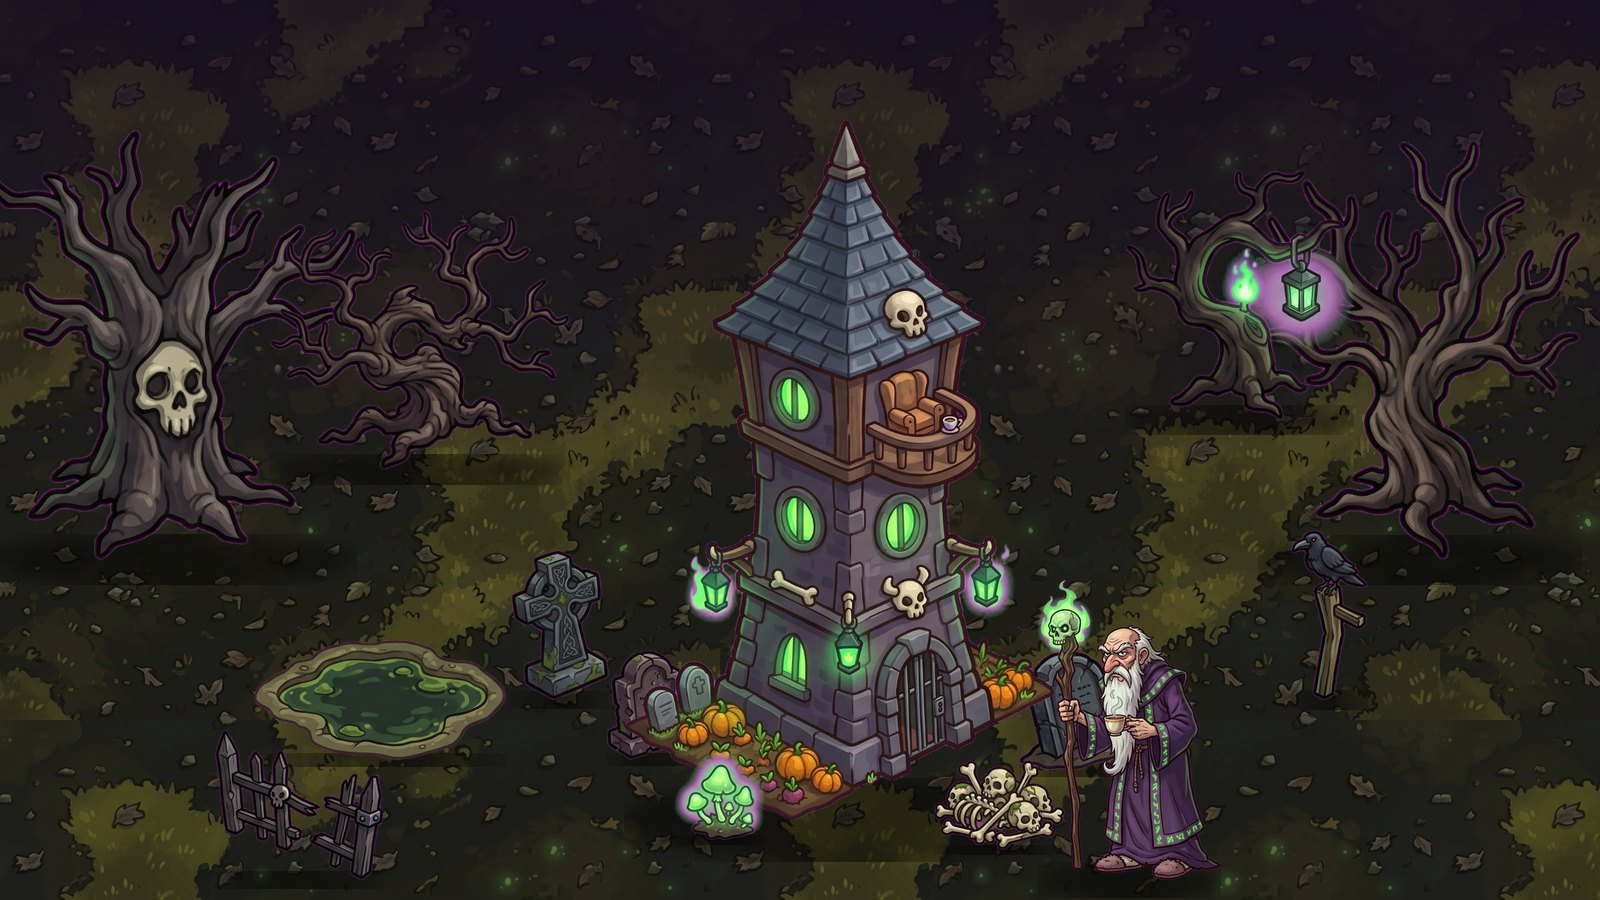
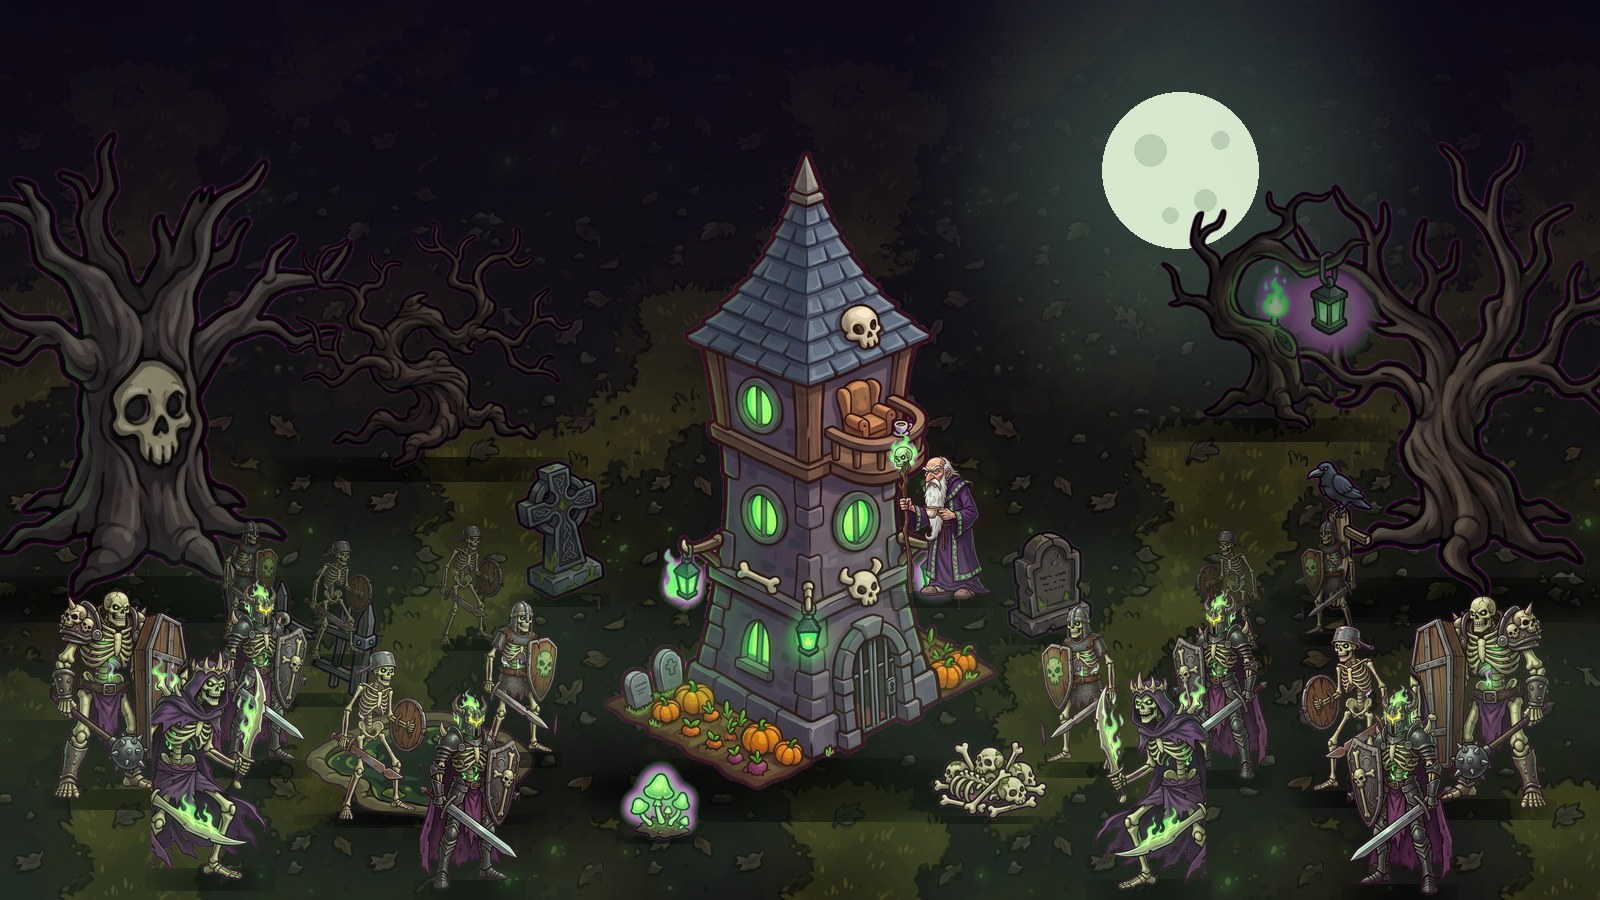
Giriş ekranı: iskelet ordulu ay ışıklı arka plan, kemik-yeşil ışıklı başlık, mezar taşı OYNA düğmesi, sis ve ruh kıvılcımları; KULE SAVUNMA kalktı; açılışta eski arka plan görünmüyor

diff --git a/sinir-kalesi/js/game.js b/sinir-kalesi/js/game.js
@@ -26,7 +26,7 @@ const spr = (name) => SPR[name] || null;
 let bgDirty = 0; // arka plan sprite'ı yeni yüklendi: bölüm arka planı ve harita önizlemeleri yeniden çizilecek
 fetch('img/manifest.json', { cache: 'no-cache' }) // liste değişince eski kopya kullanılmasın
   .then(r => (r.ok ? r.json() : []))
-  .then(list => list.forEach(file => {
+  .then(list => list.sort((a, b) => (b.startsWith('nm_title') ? 1 : 0) - (a.startsWith('nm_title') ? 1 : 0)).forEach(file => { // giriş ekranı arka planı önce yüklenir
     const name = file.replace(/\.(png|svg|jpg|webp)$/, '');
     const im = new Image();
     im.onload = () => {
@@ -7415,7 +7415,93 @@ function coverImage(im, zoom = 1, ox = 0, oy = 0) {
   ctx.drawImage(im.width > w * 1.5 ? pickMip(ctx, im, w) : im, (W - w) / 2 + ox, (H - h) / 2 + oy, w, h);
 }
 
+// ----- Necromancer giriş ekranı: kemik rengi, mor konturlu, yeşil ışıklı başlık ve mezar taşı düğme -----
+function necroLogo(s, x, y, size) {
+  ctx.font = `${size}px ${FONT_T}`; ctx.textAlign = 'center'; ctx.textBaseline = 'middle'; ctx.lineJoin = 'round';
+  const pulse = 0.55 + Math.sin(time * 2.2) * 0.15;
+  ctx.save(); ctx.shadowColor = `rgba(110,255,140,${pulse})`; ctx.shadowBlur = size * 0.5;
+  ctx.strokeStyle = '#0c0614'; ctx.lineWidth = size * 0.26; ctx.strokeText(s, x, y); ctx.restore();
+  ctx.strokeStyle = '#4a1f6e'; ctx.lineWidth = size * 0.12; ctx.strokeText(s, x, y);
+  const g = ctx.createLinearGradient(0, y - size / 2, 0, y + size / 2);
+  g.addColorStop(0, '#fbf6e4'); g.addColorStop(0.5, '#ddd2b0'); g.addColorStop(0.62, '#b4a682'); g.addColorStop(1, '#7e7058');
+  ctx.fillStyle = g; ctx.fillText(s, x, y);
+  // harflerin içinden süzülen yeşil ruh ışığı
+  const w = ctx.measureText(s).width, ph = (time * 0.25) % 1.6 - 0.3;
+  if (ph > -0.2 && ph < 1.2) {
+    const sx = x - w / 2 + ph * w, sg = ctx.createLinearGradient(sx - 60, 0, sx + 60, 0);
+    sg.addColorStop(0, 'rgba(140,255,160,0)'); sg.addColorStop(0.5, 'rgba(160,255,170,0.55)'); sg.addColorStop(1, 'rgba(140,255,160,0)');
+    ctx.save(); ctx.globalCompositeOperation = 'lighter'; ctx.fillStyle = sg; ctx.fillText(s, x, y); ctx.restore();
+  }
+}
+// mezar taşı biçimli OYNA düğmesi: koyu taş, yeşil ruh ışığıyla parlayan yazı ve kenar, iki yanda kafatası
+function necroPlayButton(key, x, y, w, h, label, fn, appear) {
+  const a = appear == null ? 1 : easeOutBack(clamp(appear / 0.35, 0, 1));
+  if (a <= 0.01) return;
+  const down = press.key === key, sc = pressScale(key) * a * (1 + Math.sin(time * 2.6) * 0.02), dy = down ? 3 : 0;
+  ctx.save(); ctx.translate(x, y); ctx.scale(sc, sc);
+  ctx.save(); ctx.globalCompositeOperation = 'lighter'; glow(ctx, 0, 6, w * 0.7, '90,255,130', 0.22 + Math.sin(time * 2.6) * 0.08); ctx.restore();
+  const shape = (o) => { ctx.beginPath(); ctx.moveTo(-w / 2 + o, h / 2 + 6 - o); ctx.lineTo(-w / 2 + o, -h / 2 + 14); ctx.quadraticCurveTo(-w / 2 + o, -h / 2 - 8 + o, -w / 2 + 40, -h / 2 - 10 + o);
+    ctx.lineTo(w / 2 - 40, -h / 2 - 10 + o); ctx.quadraticCurveTo(w / 2 - o, -h / 2 - 8 + o, w / 2 - o, -h / 2 + 14); ctx.lineTo(w / 2 - o, h / 2 + 6 - o); ctx.closePath(); };
+  ctx.fillStyle = 'rgba(0,0,0,0.5)'; ctx.save(); ctx.translate(3, 8); shape(0); ctx.fill(); ctx.restore();
+  ctx.save(); ctx.translate(0, dy);
+  shape(0); ctx.fillStyle = '#0c0812'; ctx.fill();
+  const g = ctx.createLinearGradient(0, -h / 2, 0, h / 2); g.addColorStop(0, '#5a5466'); g.addColorStop(0.5, '#3a3444'); g.addColorStop(1, '#221e2a');
+  shape(4); ctx.fillStyle = g; ctx.fill();
+  ctx.strokeStyle = `rgba(120,255,150,${0.55 + Math.sin(time * 3) * 0.2})`; ctx.lineWidth = 2; shape(7); ctx.stroke();
+  // taş çatlakları
+  ctx.strokeStyle = 'rgba(10,6,14,0.6)'; ctx.lineWidth = 1.5; ctx.beginPath(); ctx.moveTo(-w / 2 + 22, -h / 2 + 4); ctx.lineTo(-w / 2 + 34, -h / 2 + 18); ctx.lineTo(-w / 2 + 28, -h / 2 + 30);
+  ctx.moveTo(w / 2 - 26, h / 2 - 2); ctx.lineTo(w / 2 - 38, h / 2 - 16); ctx.stroke();
+  for (const sx of [-1, 1]) drawSkullIcon(sx * (w / 2 - 26), 2, 12);
+  ctx.font = `${Math.round(h * 0.5)}px ${FONT_T}`; ctx.textAlign = 'center'; ctx.textBaseline = 'middle';
+  ctx.save(); ctx.shadowColor = 'rgba(110,255,140,0.9)'; ctx.shadowBlur = 16; ctx.fillStyle = '#d8ffd8'; ctx.fillText(label, 0, 3); ctx.restore();
+  ctx.fillStyle = '#efffe8'; ctx.fillText(label, 0, 3);
+  ctx.restore(); ctx.restore();
+  if (fn) buttons.push({ key, x: x - w / 2, y: y - h / 2 - 10, w, h: h + 16, fn });
+}
+function drawSkullIcon(x, y, r) {
+  ctx.save(); ctx.translate(x, y);
+  ctx.fillStyle = '#e8e0c8'; ctx.strokeStyle = '#140c18'; ctx.lineWidth = 1.5;
+  ctx.beginPath(); ctx.arc(0, -r * 0.15, r * 0.75, Math.PI * 0.9, Math.PI * 2.1); ctx.lineTo(r * 0.45, r * 0.55); ctx.lineTo(-r * 0.45, r * 0.55); ctx.closePath(); ctx.fill(); ctx.stroke();
+  ctx.fillStyle = '#140c18'; ctx.beginPath(); ctx.ellipse(-r * 0.3, -r * 0.1, r * 0.2, r * 0.24, 0, 0, Math.PI * 2); ctx.ellipse(r * 0.3, -r * 0.1, r * 0.2, r * 0.24, 0, 0, Math.PI * 2); ctx.fill();
+  ctx.save(); ctx.globalCompositeOperation = 'lighter'; glow(ctx, -r * 0.3, -r * 0.1, r * 0.35, '120,255,140', 0.8); glow(ctx, r * 0.3, -r * 0.1, r * 0.35, '120,255,140', 0.8); ctx.restore();
+  ctx.restore();
+}
+function drawNecroTitle(st) {
+  const bg = spr('nm_title');
+  if (bg) coverImage(bg, 1.06 + Math.sin(time * 0.1) * 0.02, Math.sin(time * 0.07) * 8, Math.cos(time * 0.09) * 4);
+  else { const g = ctx.createLinearGradient(0, 0, 0, H); g.addColorStop(0, '#0c0614'); g.addColorStop(1, '#141a12'); ctx.fillStyle = g; ctx.fillRect(0, 0, W, H); }
+  // sürüklenen yeşil sis katmanları
+  ctx.save(); ctx.globalCompositeOperation = 'lighter';
+  for (let i = 0; i < 7; i++) {
+    const x = ((time * (8 + i * 3) + i * 170) % (W + 400)) - 200, y = H * (0.62 + (i % 3) * 0.12) + Math.sin(time * 0.5 + i) * 10;
+    glow(ctx, x, y, 140 + (i % 3) * 40, '90,200,120', 0.07);
+  }
+  ctx.restore();
+  // ay ışığı nabzı ve kenar karartması
+  let g = ctx.createLinearGradient(0, 0, 0, 230); g.addColorStop(0, 'rgba(8,4,14,0.75)'); g.addColorStop(1, 'rgba(8,4,14,0)');
+  ctx.fillStyle = g; ctx.fillRect(0, 0, W, 230);
+  g = ctx.createLinearGradient(0, H - 170, 0, H); g.addColorStop(0, 'rgba(6,4,10,0)'); g.addColorStop(1, 'rgba(6,4,10,0.75)');
+  ctx.fillStyle = g; ctx.fillRect(0, H - 170, W, 170);
+  // başlık
+  const e = easeOutBack(clamp(st / 0.7, 0, 1));
+  ctx.save(); ctx.globalAlpha = clamp(st / 0.25, 0, 1);
+  ctx.translate(W / 2, 92); ctx.scale(e, e); ctx.rotate(Math.sin(time * 1.1) * 0.008);
+  necroLogo("DON'T MESS WITH", 0, -34, 40); necroLogo('THE NECROMANCER', 0, 22, 64);
+  ctx.restore();
+  necroPlayButton('play', W / 2, 462, 230, 58, 'OYNA', () => go(() => { screen = 'map'; }), st - 0.55);
+  // yükselen yeşil ruh kıvılcımları ve uçuşan küller
+  if (Math.random() < 0.45) emit(uiParts, { kind: 'glow', add: true, x: rand(0, W), y: rand(H * 0.55, H), vx: rand(-6, 6), vy: rand(-26, -10),
+    col: Math.random() < 0.7 ? '120,255,140' : '190,140,255', s0: rand(1.5, 3.4), s1: 0.4, life: rand(3, 5), a: 0.9, fadeIn: 0.4 });
+}
 function drawTitle() {
+  if (NECRO) {
+    const st = time - screenT;
+    drawNecroTitle(st);
+    roundBtn('snd', W - 38, 38, 21, muted ? 'mute' : 'sound', () => setMuted(!muted), { appear: st - 0.7 });
+    roundBtn('settings', W - 88, 38, 21, 'gear', () => openSettings('title'), { appear: st - 0.75 });
+    txt('v0.3' + (window.SURUM ? ' · yayın ' + window.SURUM : ''), W - 14, H - 14, 12, 'rgba(255,255,255,0.6)', 'right', '700', FONT_B, false);
+    return;
+  }
   const st = time - screenT, bg = spr(NECRO ? 'nm_title' : 'title_bg');
   if (bg) coverImage(bg, 1.07 + Math.sin(time * 0.1) * 0.03, Math.sin(time * 0.07) * 10, Math.cos(time * 0.09) * 5);
   else {

diff --git a/sinir-kalesi/index.html b/sinir-kalesi/index.html
@@ -13,7 +13,7 @@
 <canvas id="game" aria-label="Sınır Kalesi oyun alanı"></canvas>
 <script>
   // Sürüm damgası: her yayında artırılır; tarayıcı eski önbellek kopyasını kullanmaz (js ve görseller).
-  window.SURUM = '50';
+  window.SURUM = '51';
   for (const f of ['js/data.js', 'js/game.js']) document.write('<script src="' + f + '?v=' + window.SURUM + '"><\/script>');
 </script>
 

diff --git a/sinir-kalesi/yayin.html b/sinir-kalesi/yayin.html
@@ -13,6 +13,6 @@
 <canvas id="game" aria-label="Sınır Kalesi oyun alanı"></canvas>
 <script>
   // Sürüm damgası: her yayında artırılır; tarayıcı eski önbellek kopyasını kullanmaz (js ve görseller).
-  window.SURUM = '50';
+  window.SURUM = '51';
   for (const f of ['js/data.js', 'js/game.js']) document.write('<script src="' + f + '?v=' + window.SURUM + '"><\/script>');
 </script>
